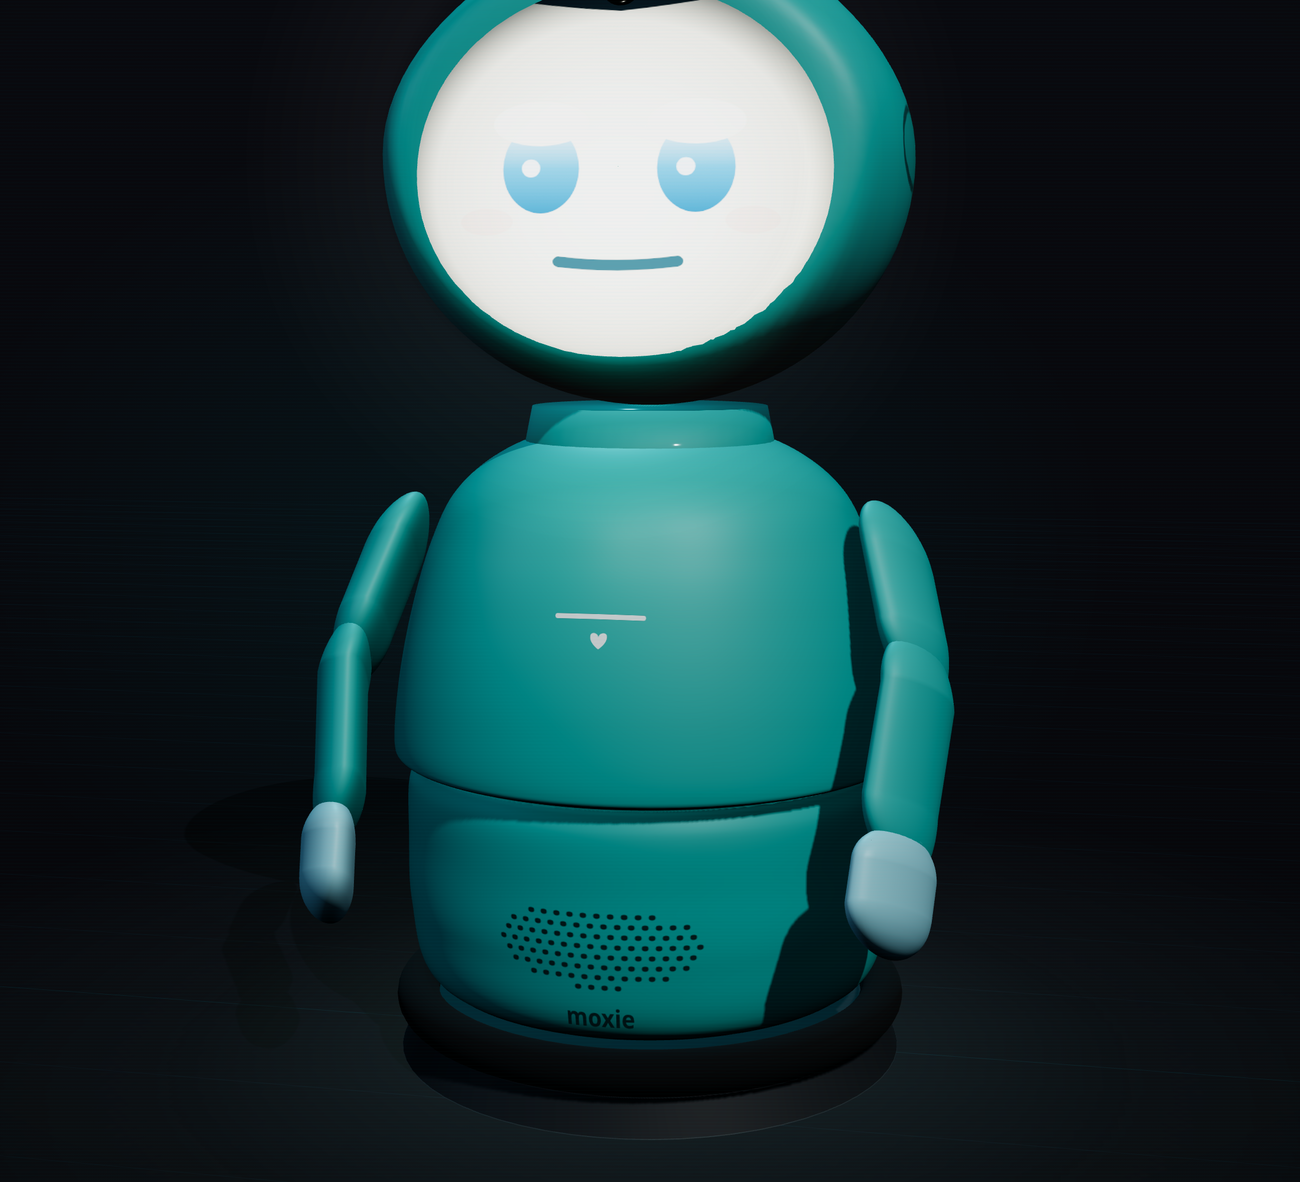
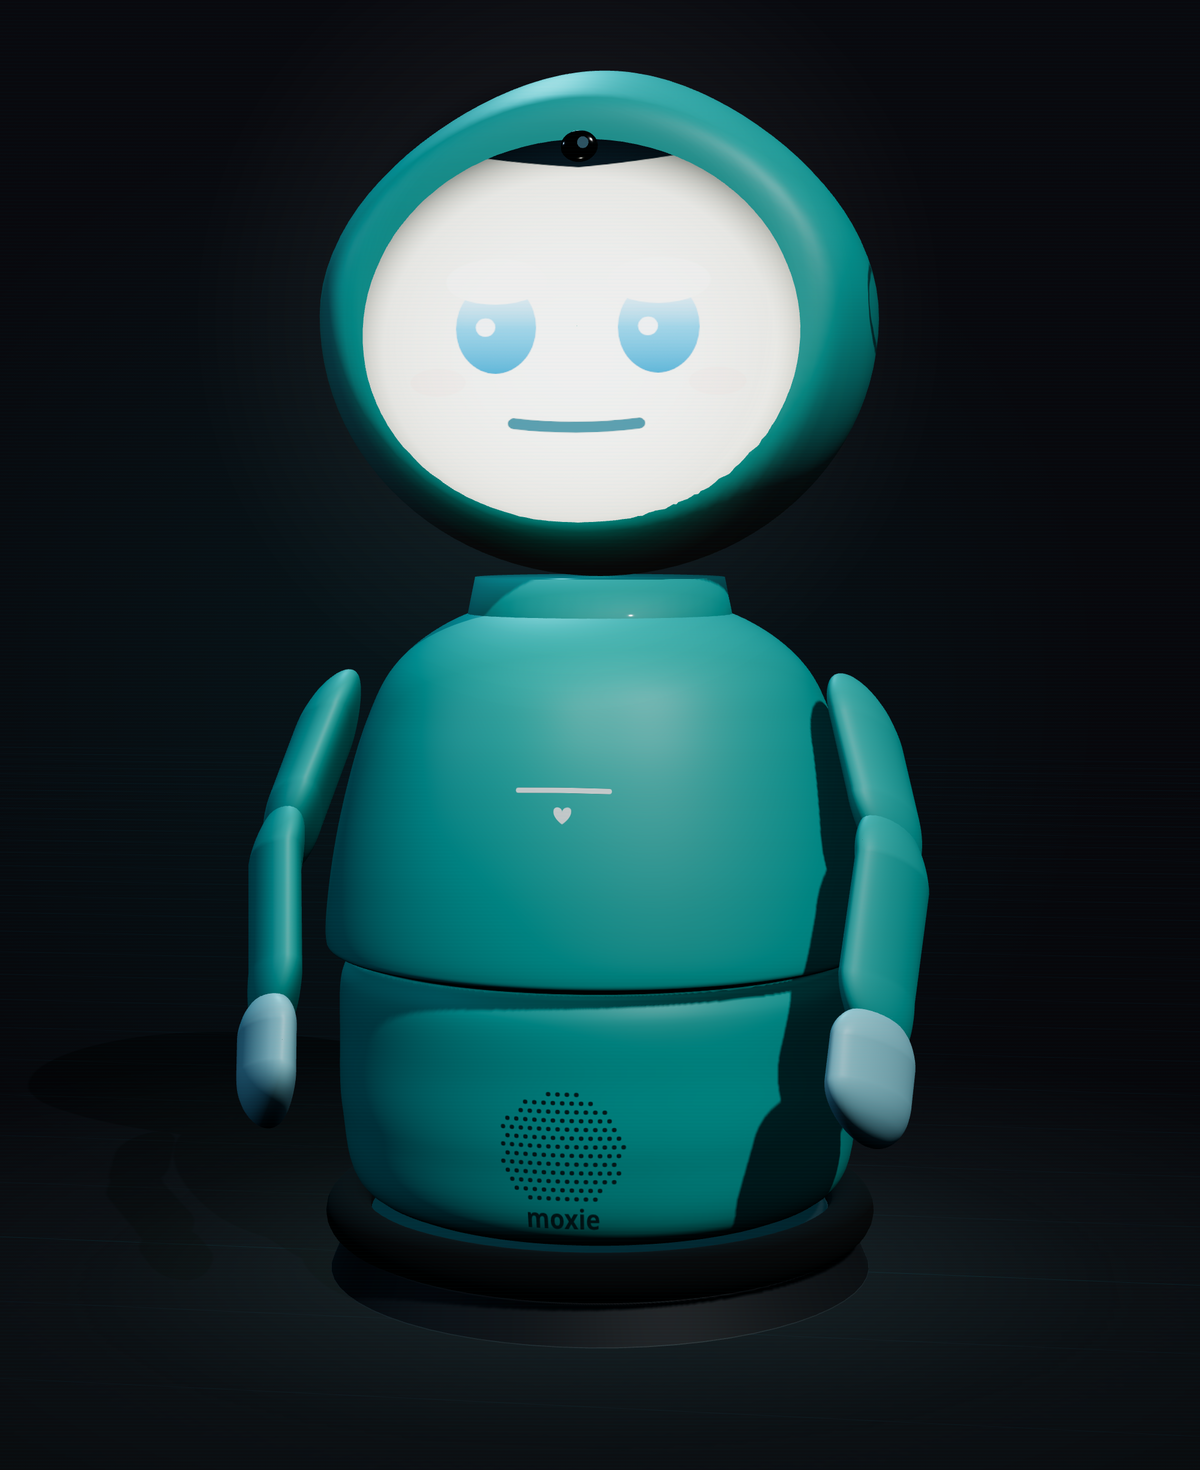
sim: round speaker port + centered full-robot hero
- Speaker grille is now a ROUND port (circular dot field on a near-square patch of
  the lower-torso front), centred on the lower torso — was a wide horizontal oval.
- Hub hero re-rendered with the WHOLE robot in frame (head no longer cut off) and
  centred, front-facing, with the cute face + round speaker. Updated the <img>
  intrinsic size to match the new aspect (no layout shift).

Verified: round grille centred on lower torso; hub hero shows the full cute Moxie.
Bridge + responsive tests green.

diff --git a/sim/web/moxie.js b/sim/web/moxie.js
@@ -699,19 +699,21 @@ faceAssembly.add(faceHalo);
 // ---- Speaker grille (transparent dot texture, LOW on the body front) ----
 
 function makeGrilleTexture() {
+  // A ROUND speaker port: a circular field of dots on a square canvas, mapped onto
+  // a near-square patch of the body so it reads as a circle (not a wide oval).
   const c = document.createElement('canvas');
-  c.width = 256; c.height = 144;
+  c.width = 200; c.height = 200;
   const g = c.getContext('2d');
   g.clearRect(0, 0, c.width, c.height);
   g.fillStyle = 'rgba(18, 42, 44, 0.9)';
-  const cx = 128, cy = 72, rx = 112, ry = 56;
-  for (let y = 14; y <= 130; y += 14) {
-    const odd = ((y / 14) % 2) === 0 ? 7 : 0;
-    for (let x = 10 + odd; x <= 246; x += 14) {
-      const dx = (x - cx) / rx, dy = (y - cy) / ry;
-      if (dx * dx + dy * dy <= 1) {
+  const cx = 100, cy = 100, R = 88;
+  for (let y = 16, row = 0; y <= 184; y += 13, row++) {
+    const odd = (row % 2) === 0 ? 6.5 : 0;
+    for (let x = 12 + odd; x <= 188; x += 13) {
+      const dx = x - cx, dy = y - cy;
+      if (dx * dx + dy * dy <= R * R) {
         g.beginPath();
-        g.arc(x, y, 3.4, 0, Math.PI * 2);
+        g.arc(x, y, 3.2, 0, Math.PI * 2);
         g.fill();
       }
     }
@@ -721,8 +723,10 @@ function makeGrilleTexture() {
   return t;
 }
 
+// Near-square patch of the lower-torso front (arc ≈ height) so the round dot field
+// stays round on the curved shell; centred on the lower torso.
 const grille = new THREE.Mesh(
-  new THREE.CylinderGeometry(0.660, 0.642, 0.26, 48, 1, true, -0.45, 0.90),
+  new THREE.CylinderGeometry(0.652, 0.648, 0.30, 48, 1, true, -0.245, 0.49),
   new THREE.MeshStandardMaterial({
     map: makeGrilleTexture(),
     transparent: true,
@@ -731,7 +735,7 @@ const grille = new THREE.Mesh(
     polygonOffsetFactor: -1,
   })
 );
-grille.position.set(0, 0.34, 0);
+grille.position.set(0, 0.32, 0);
 lowerG.add(grille);      // printed on the lower torso — planted, never leans
 
 // ---- `moxie` wordmark near the base ----

diff --git a/sim/web/index.html b/sim/web/index.html
@@ -220,7 +220,7 @@
         <span class="brk tl"></span><span class="brk br"></span>
         <div class="glassline"></div>
         <span class="live"><i></i>SIM · LIVE</span>
-        <img src="img/hero-moxie-cute.png" alt="The 3D Moxie simulator — a friendly teal robot with a glowing projector face" width="2400" height="2000">
+        <img src="img/hero-moxie-cute.png" alt="The 3D Moxie simulator — a friendly teal robot with a glowing projector face" width="1200" height="1470">
         <span class="cap">window.moxie · WebGL · runs offline</span>
       </div>
     </div>
